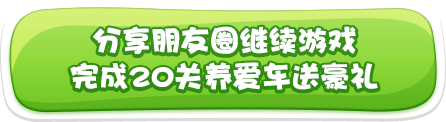
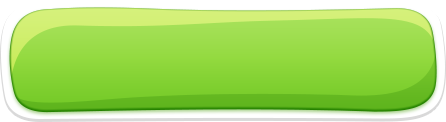
欧克，quiz界面完成

diff --git a/research/game/quiz_summary3.html b/research/game/quiz_summary3.html
@@ -36,14 +36,14 @@
         }
 
         #summary {
-            width: 90.625%;
+            width: 85.46875%;
             height: 0;
-            padding-bottom: 44.92%;
+            padding-bottom: 58.125%;
 
-            background: url("./img/quiz_summary_bg.png");
+            background: url("./img/quiz_summary_nicely_bg.png");
             background-size: contain;
 
-            margin: 7% auto 0;
+            margin: 5% auto 0;
         }
 
         #summary-text {
@@ -57,11 +57,20 @@
 
             -webkit-text-stroke: 0.033333em #3a230a;
 
-            margin: 20% auto 0;
+            margin: 22% auto 0;
         }
 
         #summary-text span {
             color: #fdfd00;
+        }
+
+        #summary-text span:first-child {
+            display: block;
+
+            font-size: 13.28125vw;
+            -webkit-text-stroke: 0.033333em #3a230a;
+
+            margin-bottom: 8vw;
         }
 
         #focus-text {
@@ -78,61 +87,6 @@
             margin: 43% auto 0;
         }
 
-        #controls ul {
-            width: 100%;
-            height: 0;
-
-            padding: 0 14.375% 5%;
-            list-style-type: none;
-
-            margin-top: 38%;
-        }
-
-        #controls ul > li {
-            width: 50%;
-            height: 0;
-
-            float: left;
-            
-            padding-bottom: 35.745614%;
-        }
-
-        #controls ul > li > div.btn {
-            width: 68%;
-            height: 0;
-
-            padding-bottom: 71.5%;
-
-            font-size: 4.6875vw;
-            line-height: 5.53em;
-
-            margin: 0 auto;
-        }
-
-        #controls ul > li > div.share.btn:active {
-            background: url("./img/quiz_share2_btn_focus.png") no-repeat;
-            background-size: contain;
-        }
-
-        #controls ul > li > div.share.btn {
-            background: url("./img/quiz_share2_btn.png") no-repeat;
-            background-size: contain;
-
-            -webkit-text-stroke: 0.03333em #157506;
-        }
-
-        #controls ul > li > div.retry.btn:active {
-            background: url("./img/quiz_retry_btn_focus.png") no-repeat;
-            background-size: contain;
-        }
-
-        #controls ul > li > div.retry.btn {
-            background: url("./img/quiz_retry_btn.png") no-repeat;
-            background-size: contain;
-
-            -webkit-text-stroke: 0.03333em #a75a00;
-        }
-
         #qr_code {
             display: block;
 
@@ -140,7 +94,7 @@
             height: 0;
             padding-bottom: 50%;
 
-            margin: 34.375% auto 0;
+            margin: 77% auto 0;
         }
     </style>
 </head>
@@ -161,21 +115,13 @@
 
 <div id="text-bg" class="fixed-wrapper" style="z-index: 2;">
     <div class="mobile-wrapper">
-        <div id="summary-text">您对汽车品牌的理解程度已经<br>超过<span>百分之10</span>的用户</div>
+        <div id="summary-text"><span>恭喜您</span>您对汽车品牌的了解<br>已经将其他人<span>甩出去3条街</span></div>
         <div id="focus-text">想了解更多的赛车知识<br>请关注养爱车</div>
     </div>
 </div>
 
 <div id="controls" class="fixed-wrapper" style="z-index: 3;">
     <div class="mobile-wrapper">
-        <ul>
-            <li>
-                <div class="round btn share">晒成绩</div>
-            </li>
-            <li>
-                <div class="round btn retry">再试一次</div>
-            </li>
-        </ul>
         <div id="qr_code"><img style="width: 100%;" src="./img/quiz_qr_code.png"></div>
     </div>
 </div>

diff --git a/research/game/quiz_summary2.html b/research/game/quiz_summary2.html
@@ -78,59 +78,23 @@
             margin: 43% auto 0;
         }
 
-        #controls ul {
-            width: 100%;
+        #controls div.share.btn {
+            width: 69.53125%;
             height: 0;
+            padding-top: 3.45%;
+            padding-bottom: 15.45%;
 
-            padding: 0 14.375% 5%;
-            list-style-type: none;
-
-            margin-top: 38%;
-        }
-
-        #controls ul > li {
-            width: 50%;
-            height: 0;
-
-            float: left;
-            
-            padding-bottom: 35.745614%;
-        }
-
-        #controls ul > li > div.btn {
-            width: 68%;
-            height: 0;
-
-            padding-bottom: 71.5%;
-
-            font-size: 4.6875vw;
-            line-height: 5.53em;
-
-            margin: 0 auto;
-        }
-
-        #controls ul > li > div.share.btn:active {
-            background: url("./img/quiz_share2_btn_focus.png") no-repeat;
-            background-size: contain;
-        }
-
-        #controls ul > li > div.share.btn {
-            background: url("./img/quiz_share2_btn.png") no-repeat;
-            background-size: contain;
-
-            -webkit-text-stroke: 0.03333em #157506;
-        }
-
-        #controls ul > li > div.retry.btn:active {
-            background: url("./img/quiz_retry_btn_focus.png") no-repeat;
-            background-size: contain;
-        }
-
-        #controls ul > li > div.retry.btn {
-            background: url("./img/quiz_retry_btn.png") no-repeat;
+            background: url("./img/quiz_share_btn.png") no-repeat;
             background-size: contain;
 
             -webkit-text-stroke: 0.03333em #a75a00;
+
+            margin: 40% auto 0;
+        }
+
+        #controls div.share.btn:active {
+            background: url("./img/quiz_share_btn_focus.png") no-repeat;
+            background-size: contain;
         }
 
         #qr_code {
@@ -140,7 +104,7 @@
             height: 0;
             padding-bottom: 50%;
 
-            margin: 34.375% auto 0;
+            margin: 18% auto 0;
         }
     </style>
 </head>
@@ -161,21 +125,14 @@
 
 <div id="text-bg" class="fixed-wrapper" style="z-index: 2;">
     <div class="mobile-wrapper">
-        <div id="summary-text">您对汽车品牌的理解程度已经<br>超过<span>百分之10</span>的用户</div>
+        <div id="summary-text">您对汽车品牌的理解程度已经<br>超过<span>百分之50</span>的用户</div>
         <div id="focus-text">想了解更多的赛车知识<br>请关注养爱车</div>
     </div>
 </div>
 
 <div id="controls" class="fixed-wrapper" style="z-index: 3;">
     <div class="mobile-wrapper">
-        <ul>
-            <li>
-                <div class="round btn share">晒成绩</div>
-            </li>
-            <li>
-                <div class="round btn retry">再试一次</div>
-            </li>
-        </ul>
+        <div class="btn share">分享朋友圈继续游戏<br>完成20关养爱车送豪礼</div>
         <div id="qr_code"><img style="width: 100%;" src="./img/quiz_qr_code.png"></div>
     </div>
 </div>
